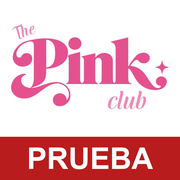
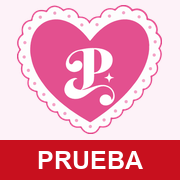
Cicatrizando/Cicatrizado, editar pedido (arreglo de Corregir y ligar clienta), icono nuevo de clientas

diff --git a/fichas.html b/fichas.html
@@ -141,8 +141,8 @@ h1{font-family:var(--font);font-weight:700;font-size:23px;line-height:1.2;color:
     <div class="campo">¿Qué revisaste?<div class="checks" id="vPerfos"></div></div>
     <label class="campo">¿Qué se vio?<textarea id="vObs" rows="3" placeholder="Ej. Se colocan aros por inflamación"></textarea></label>
     <div class="campo">¿Cómo quedan?<div class="chips" id="vEstado">
-      <button class="chip" type="button" data-e="" aria-pressed="true">No cambia</button><button class="chip" type="button" data-e="Curando" aria-pressed="false">Curando</button>
-      <button class="chip" type="button" data-e="Sana" aria-pressed="false">Sana</button><button class="chip" type="button" data-e="Retirada" aria-pressed="false">Retirada</button></div></div>
+      <button class="chip" type="button" data-e="" aria-pressed="true">No cambia</button><button class="chip" type="button" data-e="Curando" aria-pressed="false">Cicatrizando</button>
+      <button class="chip" type="button" data-e="Sana" aria-pressed="false">Cicatrizado</button><button class="chip" type="button" data-e="Retirada" aria-pressed="false">Retirada</button></div></div>
     <label class="campo">Próxima acción <span style="font-weight:400">(opcional; ese día sale el recordatorio)</span><input type="text" id="vAccion" placeholder="Ej. Retiro de aros de silicón"></label>
     <div class="campo">¿En cuántos días?<div class="fila"><input type="number" id="vDias" min="1" inputmode="numeric" style="max-width:110px">
       <div class="chips" style="margin:0"><button class="chip" type="button" data-d="7">7</button><button class="chip" type="button" data-d="14">14</button><button class="chip" type="button" data-d="30">30</button></div></div></div>
@@ -350,8 +350,8 @@ function pintarExp(){
   }
   salud+=(d.actualizaciones||[]).map(a=>`<div class="act"><b>Actualización · ${esc(a.campo)}</b> <span class="estado">desde ${esc(fmtF(a.fecha))}${a.por?' · '+esc(a.por):''}</span><div>${esc(a.texto)}</div></div>`).join('')
     +(enEdicion()?'<div><button class="mini" type="button" data-ed="salud">+ Actualización de salud</button></div>':'');
-  const tats=(d.tatuajes||[]).map(x=>`<div class="perfo"><span>🖋 ${esc(x.zona)}<small>${esc(fmtF(x.fecha))}${x.tatuadora?' · '+esc(x.tatuadora):''} · ${esc([x.dimensiones,x.color,x.tipo].filter(Boolean).join(' · '))}${x.prueba?' · alergia: '+esc(x.prueba):''}${x.no_nota?' · Nota '+esc(x.no_nota):''}</small></span><span class="est ${esc(x.estado)}">${esc(x.estado||'—')}</span></div>`).join('');
-  const perfos=d.perforaciones.map(x=>`<div class="perfo"><span>${esc(zonaTxt(x))}<small>${esc(fmtF(x.fecha))}${x.perforadora?' · '+esc(x.perforadora):''}${x.origen?' · '+esc(x.origen):''}${x.no_nota?' · Nota '+esc(x.no_nota):''}</small>${x.notas?`<small>${esc(x.notas)}</small>`:''}</span><span class="fila"><span class="est ${esc(x.estado)}">${esc(x.estado||'—')}</span>${enEdicion()?`<button class="mini" type="button" data-ed="perfo|${esc(x.id)}">Editar</button>`:''}</span></div>`).join('')||'<p class="estado">Sin perforaciones registradas.</p>';
+  const tats=(d.tatuajes||[]).map(x=>`<div class="perfo"><span>🖋 ${esc(x.zona)}<small>${esc(fmtF(x.fecha))}${x.tatuadora?' · '+esc(x.tatuadora):''} · ${esc([x.dimensiones,x.color,x.tipo].filter(Boolean).join(' · '))}${x.prueba?' · alergia: '+esc(x.prueba):''}${x.no_nota?' · Nota '+esc(x.no_nota):''}</small></span><span class="est ${esc(x.estado)}">${esc(estTxt(x.estado))}</span></div>`).join('');
+  const perfos=d.perforaciones.map(x=>`<div class="perfo"><span>${esc(zonaTxt(x))}<small>${esc(fmtF(x.fecha))}${x.perforadora?' · '+esc(x.perforadora):''}${x.origen?' · '+esc(x.origen):''}${x.no_nota?' · Nota '+esc(x.no_nota):''}</small>${x.notas?`<small>${esc(x.notas)}</small>`:''}</span><span class="fila"><span class="est ${esc(x.estado)}">${esc(estTxt(x.estado))}</span>${enEdicion()?`<button class="mini" type="button" data-ed="perfo|${esc(x.id)}">Editar</button>`:''}</span></div>`).join('')||'<p class="estado">Sin perforaciones registradas.</p>';
   // Línea de tiempo: consentimientos y visitas, lo más nuevo arriba
   const todos=[...d.perforaciones,...(d.tatuajes||[]).map(t=>({...t,zona:'Tatuaje en '+t.zona,lado:''}))];
   const zonas=ids=>ids.split(',').map(s=>s.trim()).map(i=>todos.find(x=>x.id===i)).filter(Boolean).map(zonaTxt).join(', ');
@@ -364,7 +364,7 @@ function pintarExp(){
     ...d.visitas.map(v=>({k:v.fecha+v.hora,h:`<div class="ev"><b>🩺 ${esc(v.tipo)}</b> <span class="f">${esc(fmtF(v.fecha))} ${esc(v.hora)}${v.atendio?' · '+esc(v.atendio):''}</span>
       ${v.perfos?`<div class="f">${esc(zonas(v.perfos))}</div>`:''}
       ${v.obs?`<div>${esc(v.obs)}</div>`:''}
-      ${v.estado?`<div class="f">Queda: <span class="est ${esc(v.estado)}">${esc(v.estado)}</span></div>`:''}
+      ${v.estado?`<div class="f">Queda: <span class="est ${esc(v.estado)}">${esc(estTxt(v.estado))}</span></div>`:''}
       ${v.accion?`<div class="prox">⏰ ${esc(v.accion)} · ${esc(fmtF(v.fecha_accion))}</div>`:''}
       ${enEdicion()?`<div style="margin-top:6px"><button class="mini" type="button" data-ed="visita|${esc(v.id)}">Editar visita</button></div>`:''}
       ${v.fotos.length?`<div class="thumbs">${v.fotos.map(f=>f.mini?`<img src="${esc(f.mini)}" data-foto="${esc(f.id)}" alt="Foto de evolución">`
@@ -440,6 +440,10 @@ $('vGuardar').onclick=async()=>{
 const ED={clave:'',por:'',form:null};
 const LADOS=['','Izquierdo','Derecho','Centro'];
 const ESTADOS=['Curando','Sana','Retirada'];
+// 27/11: en las hojas sigue Curando / Sana / Retirada; aquí solo cambia lo que se ve (Luis)
+const ESTADO_TXT={Curando:'Cicatrizando',Sana:'Cicatrizado',Retirada:'Retirada'};
+const estTxt=e=>ESTADO_TXT[e]||e||'—';
+const ESTADOS_OPS=ESTADOS.map(e=>[e,ESTADO_TXT[e]]);
 const enEdicion=()=>!!ED.clave;
 function salirEdicion(){ED.clave='';ED.por='';ED.form=null;$('edAviso').hidden=true;$('edForm').hidden=true;$('btnEditar').hidden=!esDueno();$('btnAnotar').hidden=false;$('btnNota').hidden=!!E.nota;if(E.d)pintarExp();}
 $('btnEditar').onclick=()=>{
@@ -506,7 +510,7 @@ function edPerfoNueva(){
   abrirForm('Perforación de otro estudio',[
     {k:'zona',t:'text',l:'Zona',ph:'Ej. Helix'},{k:'lado',t:'sel',l:'Lado',ops:LADOS},
     {k:'fecha',t:'date',l:'¿Cuándo se la hizo? (aproximado está bien)'},{k:'estudio',t:'text',l:'¿Dónde?',ph:'Ej. Estudio en CDMX',opc:true},
-    {k:'estado',t:'sel',l:'¿Cómo está hoy?',ops:ESTADOS,v:'Curando'},{k:'notas',t:'area',l:'Notas',ph:'Ej. Llegó con pieza de mala calidad',opc:true}],
+    {k:'estado',t:'sel',l:'¿Cómo está hoy?',ops:ESTADOS_OPS,v:'Curando'},{k:'notas',t:'area',l:'Notas',ph:'Ej. Llegó con pieza de mala calidad',opc:true}],
     v=>edApi('perfo_nueva',v));
   ED.form.nuevo=true;
 }
@@ -514,7 +518,7 @@ function edPerfo(id){
   const x=E.d.perforaciones.find(p=>p.id===id);if(!x)return;
   abrirForm('Editar perforación · '+zonaTxt(x),[
     {k:'fecha',t:'date',l:'Fecha',v:x.fecha},{k:'zona',t:'text',l:'Zona',v:x.zona},{k:'lado',t:'sel',l:'Lado',ops:LADOS,v:x.lado},
-    {k:'estado',t:'sel',l:'Estado',ops:ESTADOS,v:x.estado},{k:'notas',t:'area',l:'Notas',v:x.notas,opc:true}],
+    {k:'estado',t:'sel',l:'Estado',ops:ESTADOS_OPS,v:x.estado},{k:'notas',t:'area',l:'Notas',v:x.notas,opc:true}],
     v=>edApi('perfo_editar',Object.assign({id},v)));
   ED.form.nuevo=false;
 }
@@ -523,7 +527,7 @@ function edVisitaNueva(){
     {k:'fecha',t:'date',l:'Fecha de la visita'},{k:'hora',t:'time',l:'Hora',opc:true},
     {k:'tipo',t:'sel',l:'Tipo de visita',ops:E.d.tipos,v:E.d.tipos[0]},{k:'perfos',t:'checks',l:'¿Qué se revisó?',ops:opsPerfos(),v:[]},
     {k:'obs',t:'area',l:'¿Qué se vio o qué se hizo?',ph:'Ej. Se cambió la pieza por titanio'},
-    {k:'estado',t:'sel',l:'¿Cómo quedó?',ops:[['','No cambia'],...ESTADOS.map(e=>[e,e])],v:''},
+    {k:'estado',t:'sel',l:'¿Cómo quedó?',ops:[['','No cambia'],...ESTADOS_OPS],v:''},
     {k:'fotos',t:'file',l:'Fotos de ese día',opc:true}],
     async v=>{const fotos=v.fotos;delete v.fotos;
       const r=await edApi('visita_nueva',Object.assign({atiende:{id:'',alias:ED.por}},v));
@@ -540,7 +544,7 @@ function edVisita(id){
     {k:'fecha',t:'date',l:'Fecha',v:v.fecha},{k:'tipo',t:'sel',l:'Tipo de visita',ops:tipos,v:v.tipo},
     {k:'perfos',t:'checks',l:'¿Qué se revisó?',ops:opsPerfos(),v:[...new Set(ids)]},
     {k:'obs',t:'area',l:'Observaciones',v:v.obs},
-    {k:'estado',t:'sel',l:'¿Cómo quedó?',ops:[['','Sin dato'],...ESTADOS.map(e=>[e,e])],v:v.estado}],
+    {k:'estado',t:'sel',l:'¿Cómo quedó?',ops:[['','Sin dato'],...ESTADOS_OPS],v:v.estado}],
     x=>edApi('visita_editar',Object.assign({id},x)));
   ED.form.nuevo=false;
 }

diff --git a/pedidos.html b/pedidos.html
@@ -108,7 +108,9 @@ label.l{display:grid;gap:4px;font-size:13px;font-weight:700;color:var(--mu)}
       <div id="cliManual" class="dos" hidden>
         <label class="l" for="fNombre">Nombre<input id="fNombre" maxlength="80" autocomplete="off"></label>
         <label class="l" for="fWa">WhatsApp (10 números)<input id="fWa" inputmode="tel" maxlength="14" autocomplete="off"></label>
+        <button class="link" type="button" id="cliLigar">🔎 Ya está registrada: buscarla por nombre o ID</button>
       </div>
+      <p class="mu" id="cliNota" hidden>Su nombre y su WhatsApp salen de su registro.</p>
     </div>
     <label class="l" for="fDesc">¿Qué pidió?<textarea id="fDesc" maxlength="300" placeholder="Ej. Shinny igual a la de su perforación, dorada"></textarea></label>
     <label class="l" for="fSku">Del catálogo (opcional)<select id="fSku"><option value="">No está en el catálogo / no sé</option></select></label>
@@ -179,6 +181,7 @@ function abrir(id){
   const abierto=['Pedido','Llegó','Avisado'].includes(p.estado);
   $('vIn').innerHTML=`<h2 id="vTit">${esc(p.id)} · ${esc(p.nombre)}</h2>
     <p class="mu">${p.id_clienta?esc(p.id_clienta)+' · ':''}pidió el ${fechaTxt(p.fecha)}${p.lugar?' en '+esc(p.lugar):''}${p.registro_por?' · lo anotó '+esc(p.registro_por):''}</p>
+    <button class="btn sec" type="button" data-acc="editar">✏ Editar pedido</button>
     ${p.estado==='Cancelado'?'<p class="err">Cancelado</p>':`<div class="pasos">${orden.map((e,k)=>`<span class="paso${k<i?' ya':k===i?' hoy':''}">${e}</span>`).join('')}</div>`}
     <p style="margin:0;font-size:16px">${esc(p.descripcion)}</p>
     <div class="fotos" id="vFotos">${p.fotos.map(f=>`<span class="foto" data-ver="${f}">${minis[f]?`<img alt="Foto de referencia" src="${minis[f]}">`:'Foto'}${abierto?`<button class="x" type="button" data-quitar="${f}" aria-label="Quitar foto">×</button>`:''}</span>`).join('')}</div>
@@ -191,7 +194,7 @@ function abrir(id){
     <p class="err" id="vErr" hidden></p>
     ${abierto?`<div class="btns">${p.estado==='Pedido'?'<button class="btn verde" type="button" data-acc="llego">Ya llegó</button>':'<span></span>'}<button class="btn wa" type="button" data-acc="avisar">💬 Avisarle</button></div>
       <button class="btn oro" type="button" data-acc="cobrar">🧾 Cobrar en nota${p.anticipo?' (resta '+pesos(p.anticipo)+')':''}</button>
-      <div class="btns"><button class="btn sec" type="button" data-acc="editar">Corregir</button><button class="btn baja" type="button" data-acc="cancelar">Cancelar pedido</button></div>
+      <button class="btn baja" type="button" data-acc="cancelar">Cancelar pedido</button>
       <button class="link" type="button" data-acc="entregado">Ya se entregó (con otra nota o sin nota)</button>`
      :`<button class="link" type="button" data-acc="reabrir">Regresarlo a "${p.estado==='Cancelado'?'Pedido':'Avisado'}" (si se marcó por error)</button>`}
     <button class="btn sec" type="button" data-acc="cerrar">Cerrar</button>`;
@@ -225,7 +228,7 @@ $('vIn').addEventListener('click',async e=>{
     try{localStorage.setItem('ypp_handoff',JSON.stringify({desde:'pedido',id_pedido:V.id,id_clienta:V.id_clienta,apodo:V.nombre,sku:V.sku,descripcion:V.descripcion,precio:V.precio,anticipo:V.anticipo,forma_anticipo:V.forma_anticipo}));}catch(x){}
     location.href='nota/?desde=pedido';return;
   }
-  if(a==='editar'){cerrarVer();return abrirForm(V);}
+  if(a==='editar'){const p=V;cerrarVer();return abrirForm(p);}   // antes se perdía el pedido (V=null) y abría uno nuevo
   if(a==='cancelar')return vConf('<b>¿Cancelar '+esc(V.id)+'?</b><label class="l" for="cMot">¿Por qué?<input id="cMot" maxlength="200" placeholder="Ej. ya no lo quiso"></label>'+(V.anticipo?'<p class="mu">Ojo: dejó '+pesos(V.anticipo)+' de anticipo. Acuerden si se devuelve.</p>':''),
     ()=>{const m=$('cMot').value.trim();if(!m){vError('Escribe por qué se cancela.');return;}cambiar('consent_ped_estado',{estado:'Cancelado',motivo:m},'Cancelando…','Pedido '+V.id+' cancelado.');});
   if(a==='entregado')return vConf('<b>¿Ya se entregó?</b><label class="l" for="cNota">Número de nota (si hubo)<input id="cNota" placeholder="D-0200"></label>',
@@ -241,8 +244,8 @@ $('hVer').addEventListener('click',e=>{if(e.target.id==='hVer')cerrarVer();});
 
 // ── Nuevo / corregir ──
 async function abrirForm(p){
-  F={id:p?p.id:'',cli:p&&p.id_clienta?{id:p.id_clienta,apodo:p.nombre}:null};
-  $('fTit').textContent=p?'Corregir '+p.id:'Nuevo pedido';
+  F={id:p?p.id:'',lugar:p?p.lugar:'',cli:p&&p.id_clienta?{id:p.id_clienta,apodo:p.nombre}:null};
+  $('fTit').textContent=p?'Editar '+p.id:'Nuevo pedido';
   $('fErr').hidden=true;$('cliQ').value='';$('cliRes').innerHTML='';
   $('fNombre').value=p&&!p.id_clienta?p.nombre:'';$('fWa').value=p?p.whatsapp:'';
   $('fDesc').value=p?p.descripcion:'';$('fPrecio').value=p&&p.precio!==''?p.precio:'';$('fNota').value=p?p.no_nota_pedido:'';
@@ -256,7 +259,7 @@ async function abrirForm(p){
 }
 function pintarCli(modo){
   $('cliElegida').hidden=!F.cli;$('cliTxt').textContent=F.cli?F.cli.apodo+' · '+F.cli.id:'';
-  $('cliBuscar').hidden=!!F.cli||modo==='manual';$('cliManual').hidden=!!F.cli||modo!=='manual';
+  $('cliBuscar').hidden=!!F.cli||modo==='manual';$('cliManual').hidden=!!F.cli||modo!=='manual';$('cliNota').hidden=!F.cli;
 }
 let tBus=null;
 $('cliQ').addEventListener('input',()=>{clearTimeout(tBus);const q=$('cliQ').value.trim();if(q.length<2){$('cliRes').innerHTML='';return;}
@@ -265,6 +268,7 @@ $('cliQ').addEventListener('input',()=>{clearTimeout(tBus);const q=$('cliQ').val
     catch(x){$('cliRes').innerHTML='<p class="err">'+esc(msg(x.message))+'</p>';}},350);});
 $('cliRes').addEventListener('click',e=>{const b=e.target.closest('[data-id]');if(!b)return;F.cli={id:b.dataset.id,apodo:b.dataset.apodo};pintarCli('');});
 $('cliQuitar').onclick=()=>{F.cli=null;pintarCli('');$('cliQ').focus();};
+$('cliLigar').onclick=()=>{pintarCli('');$('cliQ').value=$('fNombre').value.trim();$('cliQ').focus();$('cliQ').select();$('cliQ').dispatchEvent(new Event('input'));};
 $('cliSinId').onclick=()=>{pintarCli('manual');$('fNombre').value=$('cliQ').value.trim();$('fNombre').focus();};
 $('fSku').addEventListener('change',()=>{const x=(CAT.productos||[]).find(p=>p.codigo===$('fSku').value);if(x){if(!$('fPrecio').value)$('fPrecio').value=x.precio;if(!$('fDesc').value.trim())$('fDesc').value=x.nombre;}});
 $('fCancelar').onclick=()=>{$('hForm').hidden=true;};
@@ -273,7 +277,7 @@ $('form').addEventListener('submit',async e=>{
   e.preventDefault();const err=m=>{$('fErr').textContent=msg(m);$('fErr').hidden=false;};$('fErr').hidden=true;
   const pedido={id_clienta:F.cli?F.cli.id:'',nombre:F.cli?'':$('fNombre').value.trim(),whatsapp:F.cli?'':$('fWa').value.trim(),descripcion:$('fDesc').value.trim(),
     sku:$('fSku').value,precio:$('fPrecio').value.trim(),anticipo:$('fAnt').value.trim(),forma_anticipo:$('fForma').value,no_nota_pedido:$('fNota').value.trim(),
-    lugar:leer('ypp_lugar'),notas:$('fNotas').value.trim()};
+    lugar:F.id?F.lugar:leer('ypp_lugar'),notas:$('fNotas').value.trim()};
   if(!pedido.id_clienta&&!pedido.nombre)return err('Busca a la clienta o escribe su nombre.');
   if(!pedido.descripcion){$('fDesc').focus();return err('Escribe qué pidió.');}
   if(Number(pedido.anticipo)>0&&!pedido.forma_anticipo){$('fForma').focus();return err('¿Cómo pagó el anticipo?');}
@@ -282,7 +286,7 @@ $('form').addEventListener('submit',async e=>{
     let r=await api('consent_ped_guardar',{id:F.id,pedido},'Guardando el pedido…');
     for(const f of fotos)r=await api('consent_ped_foto',{id:r.guardado,foto:await reducir(f)},'Subiendo la foto…');
     D=r;$('hForm').hidden=true;estado=D.pedidos.find(p=>p.id===r.guardado)?.estado||estado;pintar();
-    okMsg((F.id?'Corregido ✓ ':'Pedido anotado ✓ ')+r.guardado);scrollTo(0,0);
+    okMsg((F.id?(r.sin_cambios?'Sin cambios en ':'Guardado ✓ '):'Pedido anotado ✓ ')+r.guardado);scrollTo(0,0);
   }catch(x){err(x.message);}
 });
 function reducir(file){return new Promise((ok,no)=>{const img=new Image(),u=URL.createObjectURL(file);

diff --git a/pink/index.html b/pink/index.html
@@ -5,7 +5,7 @@
 <meta name="viewport" content="width=device-width,initial-scale=1,viewport-fit=cover">
 <meta name="robots" content="noindex">
 <meta name="theme-color" content="#FCD9E8">
-<title>PRUEBA · Pink Club · Yiyi Pash</title><meta name="robots" content="noindex"><script>document.addEventListener('DOMContentLoaded',function(){var d=document.createElement('div');d.textContent='PRUEBA · nada de lo que hagas aquí es real';d.style.cssText='position:sticky;top:0;z-index:99999;background:#b91c1c;color:#fff;text-align:center;font:700 13px/1.4 system-ui,sans-serif;padding:6px 8px';document.body.insertBefore(d,document.body.firstChild);});</script><link rel="icon" type="image/png" sizes="32x32" href="https://yiyipash.com/prueba/pink/icono-32.png"><link rel="icon" type="image/png" sizes="192x192" href="https://yiyipash.com/prueba/pink/icono-192.png"><link rel="apple-touch-icon" href="https://yiyipash.com/prueba/pink/icono-180.png">
+<title>PRUEBA · Pink Club · Yiyi Pash</title><meta name="robots" content="noindex"><script>document.addEventListener('DOMContentLoaded',function(){var d=document.createElement('div');d.textContent='PRUEBA · nada de lo que hagas aquí es real';d.style.cssText='position:sticky;top:0;z-index:99999;background:#b91c1c;color:#fff;text-align:center;font:700 13px/1.4 system-ui,sans-serif;padding:6px 8px';document.body.insertBefore(d,document.body.firstChild);});</script><link rel="icon" type="image/png" sizes="32x32" href="https://yiyipash.com/prueba/pink/icono-32.png?v=2"><link rel="icon" type="image/png" sizes="192x192" href="https://yiyipash.com/prueba/pink/icono-192.png?v=2"><link rel="apple-touch-icon" href="https://yiyipash.com/prueba/pink/icono-180.png?v=2">
 <link rel="stylesheet" href="https://fonts.googleapis.com/css2?family=Montserrat:wght@400;500;600;700&family=Fredoka:wght@500;600&display=swap">
 <style>
 /* App de clientas del Pink Club (02/11/2026). Identidad del manual de marca + accesibilidad (WCAG AA).
@@ -532,8 +532,8 @@ function pintarMovs(){
   }).join(''):'<li class="vacio">Aquí verás tus compras y tus puntos.</li>';
 }
 function estadoTxt(x){
-  if(x.estado==='Curando')return '<div class="estado Curando">Sanando'+(x.dias!=null&&x.dias>=0?' · día '+(x.dias+1):'')+'</div>';
-  if(x.estado==='Sana')return '<div class="estado Sana">Sanada</div>';
+  if(x.estado==='Curando')return '<div class="estado Curando">En proceso de cicatrización'+(x.dias!=null&&x.dias>=0?' · día '+(x.dias+1):'')+'</div>';
+  if(x.estado==='Sana')return '<div class="estado Sana">Cicatrizado</div>';
   if(x.estado==='Retirada')return '<div class="estado Retirada">Retirada</div>';
   return '';
 }

diff --git a/pink/registro.html b/pink/registro.html
@@ -3,7 +3,7 @@
 <head>
   <meta charset="UTF-8">
   <meta name="viewport" content="width=device-width,initial-scale=1">
-  <title>PRUEBA · Regístrate · Pink Club</title><meta name="robots" content="noindex"><script>document.addEventListener('DOMContentLoaded',function(){var d=document.createElement('div');d.textContent='PRUEBA · nada de lo que hagas aquí es real';d.style.cssText='position:sticky;top:0;z-index:99999;background:#b91c1c;color:#fff;text-align:center;font:700 13px/1.4 system-ui,sans-serif;padding:6px 8px';document.body.insertBefore(d,document.body.firstChild);});</script><link rel="icon" type="image/png" sizes="32x32" href="https://yiyipash.com/prueba/pink/icono-32.png"><link rel="icon" type="image/png" sizes="192x192" href="https://yiyipash.com/prueba/pink/icono-192.png"><link rel="apple-touch-icon" href="https://yiyipash.com/prueba/pink/icono-180.png">
+  <title>PRUEBA · Regístrate · Pink Club</title><meta name="robots" content="noindex"><script>document.addEventListener('DOMContentLoaded',function(){var d=document.createElement('div');d.textContent='PRUEBA · nada de lo que hagas aquí es real';d.style.cssText='position:sticky;top:0;z-index:99999;background:#b91c1c;color:#fff;text-align:center;font:700 13px/1.4 system-ui,sans-serif;padding:6px 8px';document.body.insertBefore(d,document.body.firstChild);});</script><link rel="icon" type="image/png" sizes="32x32" href="https://yiyipash.com/prueba/pink/icono-32.png?v=2"><link rel="icon" type="image/png" sizes="192x192" href="https://yiyipash.com/prueba/pink/icono-192.png?v=2"><link rel="apple-touch-icon" href="https://yiyipash.com/prueba/pink/icono-180.png?v=2">
   <meta name="description" content="Regístrate gratis en el Pink Club de Yiyi Pash.">
   <link href="https://fonts.googleapis.com/css2?family=Poppins:wght@400;500;600;700&display=swap" rel="stylesheet">
   <link rel="stylesheet" href="pink.css">

diff --git a/pink/aviso.html b/pink/aviso.html
@@ -3,7 +3,7 @@
 <head>
   <meta charset="UTF-8">
   <meta name="viewport" content="width=device-width,initial-scale=1">
-  <title>PRUEBA · Aviso de privacidad · Yiyi Pash</title><meta name="robots" content="noindex"><script>document.addEventListener('DOMContentLoaded',function(){var d=document.createElement('div');d.textContent='PRUEBA · nada de lo que hagas aquí es real';d.style.cssText='position:sticky;top:0;z-index:99999;background:#b91c1c;color:#fff;text-align:center;font:700 13px/1.4 system-ui,sans-serif;padding:6px 8px';document.body.insertBefore(d,document.body.firstChild);});</script><link rel="icon" type="image/png" sizes="32x32" href="https://yiyipash.com/prueba/pink/icono-32.png"><link rel="icon" type="image/png" sizes="192x192" href="https://yiyipash.com/prueba/pink/icono-192.png"><link rel="apple-touch-icon" href="https://yiyipash.com/prueba/pink/icono-180.png">
+  <title>PRUEBA · Aviso de privacidad · Yiyi Pash</title><meta name="robots" content="noindex"><script>document.addEventListener('DOMContentLoaded',function(){var d=document.createElement('div');d.textContent='PRUEBA · nada de lo que hagas aquí es real';d.style.cssText='position:sticky;top:0;z-index:99999;background:#b91c1c;color:#fff;text-align:center;font:700 13px/1.4 system-ui,sans-serif;padding:6px 8px';document.body.insertBefore(d,document.body.firstChild);});</script><link rel="icon" type="image/png" sizes="32x32" href="https://yiyipash.com/prueba/pink/icono-32.png?v=2"><link rel="icon" type="image/png" sizes="192x192" href="https://yiyipash.com/prueba/pink/icono-192.png?v=2"><link rel="apple-touch-icon" href="https://yiyipash.com/prueba/pink/icono-180.png?v=2">
   <link href="https://fonts.googleapis.com/css2?family=Poppins:wght@400;500;600;700&display=swap" rel="stylesheet">
   <link rel="stylesheet" href="pink.css">
 </head>

diff --git a/pink/terminos.html b/pink/terminos.html
@@ -3,7 +3,7 @@
 <head>
   <meta charset="UTF-8">
   <meta name="viewport" content="width=device-width,initial-scale=1">
-  <title>PRUEBA · Términos · Pink Club</title><meta name="robots" content="noindex"><script>document.addEventListener('DOMContentLoaded',function(){var d=document.createElement('div');d.textContent='PRUEBA · nada de lo que hagas aquí es real';d.style.cssText='position:sticky;top:0;z-index:99999;background:#b91c1c;color:#fff;text-align:center;font:700 13px/1.4 system-ui,sans-serif;padding:6px 8px';document.body.insertBefore(d,document.body.firstChild);});</script><link rel="icon" type="image/png" sizes="32x32" href="https://yiyipash.com/prueba/pink/icono-32.png"><link rel="icon" type="image/png" sizes="192x192" href="https://yiyipash.com/prueba/pink/icono-192.png"><link rel="apple-touch-icon" href="https://yiyipash.com/prueba/pink/icono-180.png">
+  <title>PRUEBA · Términos · Pink Club</title><meta name="robots" content="noindex"><script>document.addEventListener('DOMContentLoaded',function(){var d=document.createElement('div');d.textContent='PRUEBA · nada de lo que hagas aquí es real';d.style.cssText='position:sticky;top:0;z-index:99999;background:#b91c1c;color:#fff;text-align:center;font:700 13px/1.4 system-ui,sans-serif;padding:6px 8px';document.body.insertBefore(d,document.body.firstChild);});</script><link rel="icon" type="image/png" sizes="32x32" href="https://yiyipash.com/prueba/pink/icono-32.png?v=2"><link rel="icon" type="image/png" sizes="192x192" href="https://yiyipash.com/prueba/pink/icono-192.png?v=2"><link rel="apple-touch-icon" href="https://yiyipash.com/prueba/pink/icono-180.png?v=2">
   <link href="https://fonts.googleapis.com/css2?family=Poppins:wght@400;500;600;700&display=swap" rel="stylesheet">
   <link rel="stylesheet" href="pink.css">
 </head>

diff --git a/nota/index.html b/nota/index.html
@@ -1416,7 +1416,7 @@ function pintarVisitaNota(){
       <label>Tipo de visita<select id="vnTipo">${d.tipos.map(t=>`<option>${esc(t)}</option>`).join('')}</select></label>
       <div class="vn-l">¿Qué se revisó?<div class="vn-checks">${items.length?items.map(x=>`<label><input type="checkbox" value="${esc(x.id)}"${activas.includes(x)?' checked':''}> ${esc(zonaTxt_VN(x))} <small>(${esc(fmtF_VN(x.fecha))})</small></label>`).join(''):'<span class="vn-mu">Sin perforaciones registradas.</span>'}</div></div>
       <label>¿Qué se hizo o qué se propuso?<textarea id="vnObs" rows="3" placeholder="Ej. Se cambió la pieza por titanio; se propone downsize en 15 días"></textarea></label>
-      <div class="vn-l">¿Cómo quedan?<div class="vn-chips" id="vnEstado">${[['','No cambia'],['Curando','Curando'],['Sana','Sana'],['Retirada','Retirada']].map(([v,t])=>`<button type="button" class="vn-chip" data-e="${v}" aria-pressed="${v===''}">${t}</button>`).join('')}</div></div>
+      <div class="vn-l">¿Cómo quedan?<div class="vn-chips" id="vnEstado">${[['','No cambia'],['Curando','Cicatrizando'],['Sana','Cicatrizado'],['Retirada','Retirada']].map(([v,t])=>`<button type="button" class="vn-chip" data-e="${v}" aria-pressed="${v===''}">${t}</button>`).join('')}</div></div>
       <label>Próxima acción <small>(opcional; ese día sale el recordatorio)</small><input type="text" id="vnAccion" placeholder="Ej. Revisión de downsize"></label>
       <label>¿En cuántos días?<input type="number" id="vnDias" min="1" inputmode="numeric" style="max-width:120px"></label>
       <label>Fotos de evolución <small>(privadas, solo para el equipo)</small><input type="file" id="vnFotos" accept="image/*" multiple></label>
